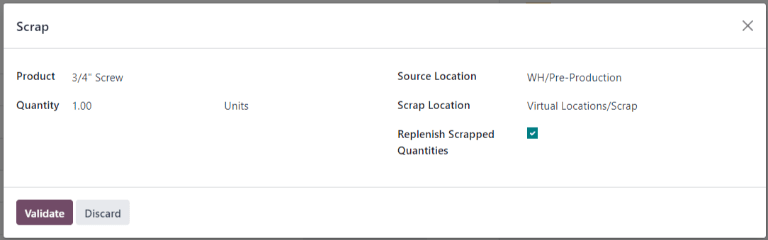
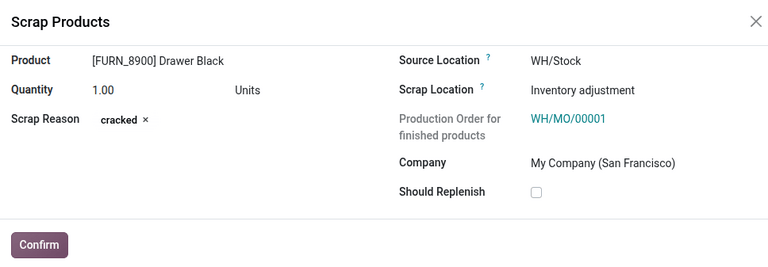
[IMP] mrp: scrap orders for manufacturing

diff --git a/content/applications/inventory_and_mrp/manufacturing/workflows/scrap_manufacturing.rst b/content/applications/inventory_and_mrp/manufacturing/workflows/scrap_manufacturing.rst
@@ -3,6 +3,7 @@ Scrap during manufacturing
 ==========================
 
 .. |MO| replace:: :abbr:`MO (Manufacturing Order)`
+.. |MOs| replace:: :abbr:`MOs (Manufacturing Orders)`
 
 During the manufacturing process, scrapping components or finished products may be necessary when
 items are damaged, defective, or no longer usable.
@@ -10,30 +11,31 @@ items are damaged, defective, or no longer usable.
 Tracking scrapped materials helps manufacturers monitor waste, identify process issues, and account
 for production costs.
 
-In Odoo, scrapped items are removed from physical inventory and moved to a virtual location called
-*Virtual Locations/Scrap*. This location is not a physical space—it is a way to log and track losses
-without affecting real stock levels.
+By default, in Odoo, scrapped items are removed from physical inventory and moved to a virtual
+location called *Inventory adjustment*. This location is not a physical space. It is a way to log
+and track losses without affecting real stock levels. However, to better account for scrapped goods
+and to make sure these scraps show up in the :ref:`Profit and Loss report
+<accounting/reporting/profit-and-loss>`, it is possible to set up a scrap location and scrap
+journal.
 
 .. seealso::
-   :doc:`Location types <../../inventory/warehouses_storage/inventory_management>`
+   - :doc:`Location types <../../inventory/warehouses_storage/inventory_management>`
+   - :doc:`../../inventory/inventory_valuation/scrapped_inventory_valuation`
 
 .. tip::
-   Scrap orders can be viewed by navigating to :menuselection:`Inventory --> Operations --> Scrap`.
-   Each scrap order shows the date and time the order was created, along with the product and
-   quantity that was scrapped.
-
-   To view the total quantity of each item scrapped, navigate to :menuselection:`Inventory -->
-   Configuration --> Locations`, then remove the :guilabel:`Internal` filter from the
-   :guilabel:`Search...` bar to display all virtual locations. From the list, select the
-   :guilabel:`Virtual Locations/Scrap` location.
+   View scrap orders by navigating to :menuselection:`Inventory --> Operations --> Scrap`. Each
+   scrap order shows the date and time the order was created, along with the product and quantity
+   that was scrapped. Click in the :guilabel:`Search` field to :guilabel:`Group By` the
+   :guilabel:`Product` and review the total quantity of each item scrapped.
 
 .. _manufacturing/management/scrap-window:
 
 Navigate to the scrap window
 ============================
 
-Scrapping can be done in either the **Manufacturing** app or the **Shop Floor** module, depending on
-the task.
+Scrapping can be done in either the :ref:`Manufacturing app
+<manufacturing/scrap_manufacturing/manufacturing-app>` or the :ref:`Shop Floor module
+<manufacturing/scrap_manufacturing/shop-floor>`, depending on the task.
 
 **Manufacturing** app allows:
 
@@ -44,52 +46,70 @@ the task.
 
 - Scrapping only components.
 
+.. _manufacturing/scrap_manufacturing/manufacturing-app:
+
 Manufacturing app
 -----------------
 
 To scrap a product from the **Manufacturing** app, go to :menuselection:`Manufacturing -->
-Operations --> Manufacturing Orders` and select the desired |MO|.
+Operations --> Manufacturing Orders` and open the desired |MO|.
 
-On the |MO|, click the :icon:`fa-cog` :guilabel:`(Actions)` icon, then choose :guilabel:`Scrap` from
-the drop-down menu.
+.. note::
+   By default, this list is filtered by |MOs| that have the :guilabel:`To Do` status. Clear this
+   filter to show completed |MOs|.
 
-.. image:: scrap_manufacturing/cog.png
-   :alt: MO with the cog's drop-down menu revealed, to show the Scrap option.
+On the |MO|, click the :icon:`more_vert` :guilabel:`(Actions)` icon, then choose :guilabel:`Scrap`
+from the drop-down menu.
+
+Then, :ref:`complete the Scrap Products pop-up window
+<manufacturing/scrap_manufacturing/scrap-products>`.
+
+.. image:: scrap_manufacturing/vert-ellipsis-menu.png
+   :alt: MO with the vertical ellipsis drop-down menu revealed to show the Scrap option.
+
+.. _manufacturing/scrap_manufacturing/shop-floor:
 
 Shop Floor
 ----------
 
-In **Shop Floor**, only components can be scrapped. Navigate to the desired |MO| card, and then tap
-the :icon:`fa-cog` :guilabel:`(Actions)` icon and in the :guilabel:`What do you want to do?` pop-up
-window, select :guilabel:`Scrap`.
+In *Shop Floor*, only components can be scrapped. Navigate to the desired |MO| card, and then tap
+the :icon:`more_vert` :guilabel:`(Actions)` icon. In the *Options* pop-up window, select
+:icon:`shuffle` :guilabel:`Scrap`, then :ref:`complete the Scrap Products window
+<manufacturing/scrap_manufacturing/scrap-products>`.
 
 .. image:: scrap_manufacturing/shop-floor.png
-   :alt: Scrap pop-up window in the Shop Floor app.
+   :alt: Options pop-up window in the Shop Floor app.
 
-Scrap pop-up window
-===================
+.. _manufacturing/scrap_manufacturing/scrap-products:
 
-After opening the :guilabel:`Scrap Products` pop-up window using one of the methods :ref:`detailed
-above <manufacturing/management/scrap-window>`, select the component or finished product being
-scrapped, from the :guilabel:`Product` drop-down menu.
+Scrap Products pop-up window
+============================
+
+After opening the *Scrap Products* pop-up window using one of the methods :ref:`detailed above
+<manufacturing/management/scrap-window>`, select the component or finished product being scrapped
+from the :guilabel:`Product` drop-down menu.
 
 In the :guilabel:`Quantity` field, enter the quantity being scrapped.
 
-By default, the :guilabel:`Source Location` field is set to the warehouse's pre-production location,
-while the :guilabel:`Scrap Location` field is set to the :guilabel:`Virtual Locations/Scrap`
-location. If either the source or scrap location should be changed, select a different location from
-their respective drop-down menus.
+To record a reason the product or component is being scrapped, add it in the :guilabel:`Scrap
+Reason` field.
 
-Enable the :guilabel:`Replenish Scrapped Quantities` checkbox if a picking order should be created
-to replace the scrapped component upon confirmation of the scrap order. This option should only be
-enabled for warehouses with :doc:`two-step <../basic_setup/two_step_manufacturing>` or
-:doc:`three-step <../basic_setup/three_step_manufacturing>` manufacturing enabled, since components
-are not picked as part of the :doc:`one-step <../basic_setup/one_step_manufacturing>` manufacturing
-process.
+By default, the :guilabel:`Source Location` field is set to the warehouse's pre-production location,
+while the :guilabel:`Scrap Location` field is set to the :guilabel:`Inventory adjustment` location.
+If either the source or scrap location should be changed, select a different location from their
+respective drop-down menus.
+
+Enable the :guilabel:`Should Replenish` checkbox if a replenishment order should be created to
+replace the scrapped component upon confirmation of the scrap order.
+
+For one-step manufacturing, the replenishment comes directly from stock (if stock is available), or
+a purchase order or |MO| is triggered for those replenishment routes. For two- or three-step
+manufacturing, enabling :guilabel:`Should Replenish` creates a transfer to validate, which is linked
+to the |MO|.
 
 .. image:: scrap_manufacturing/scrap-window.png
-   :alt: The Scrap pop-up window.
+   :alt: The Scrap Products pop-up window.
 
-After filling out the :guilabel:`Scrap Products` pop-up window, click the :guilabel:`Scrap Products`
-button. After one or more scrap orders have been created, a :guilabel:`Scraps` smart button appears
-at the top of the screen. Click it to view a list of all scrap orders for the |MO|.
+After filling out the *Scrap Products* pop-up window, click :guilabel:`Confirm`. After one or more
+scrap orders have been created, a :icon:`height` :guilabel:`Scraps` smart button appears at the top
+of the screen on the |MO| form. Click it to view a list of all scrap orders for the |MO|.
